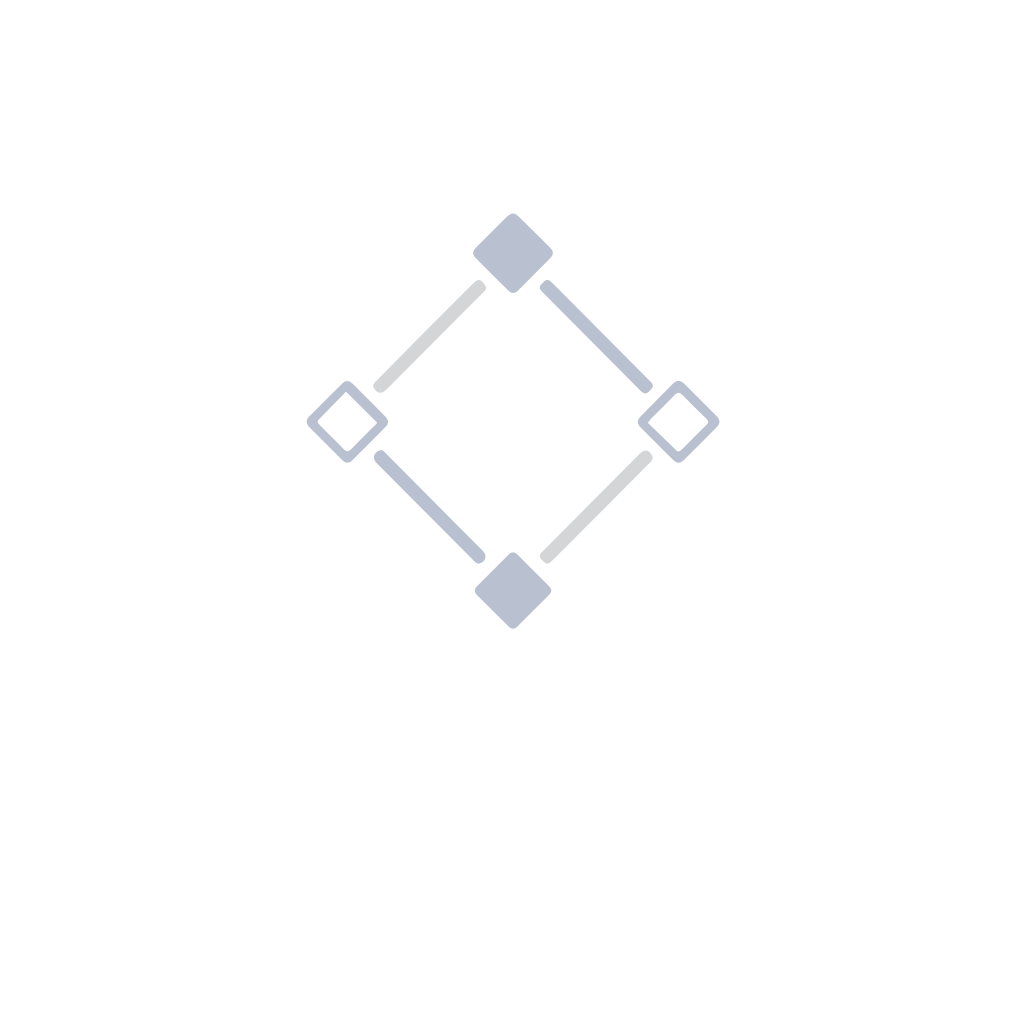
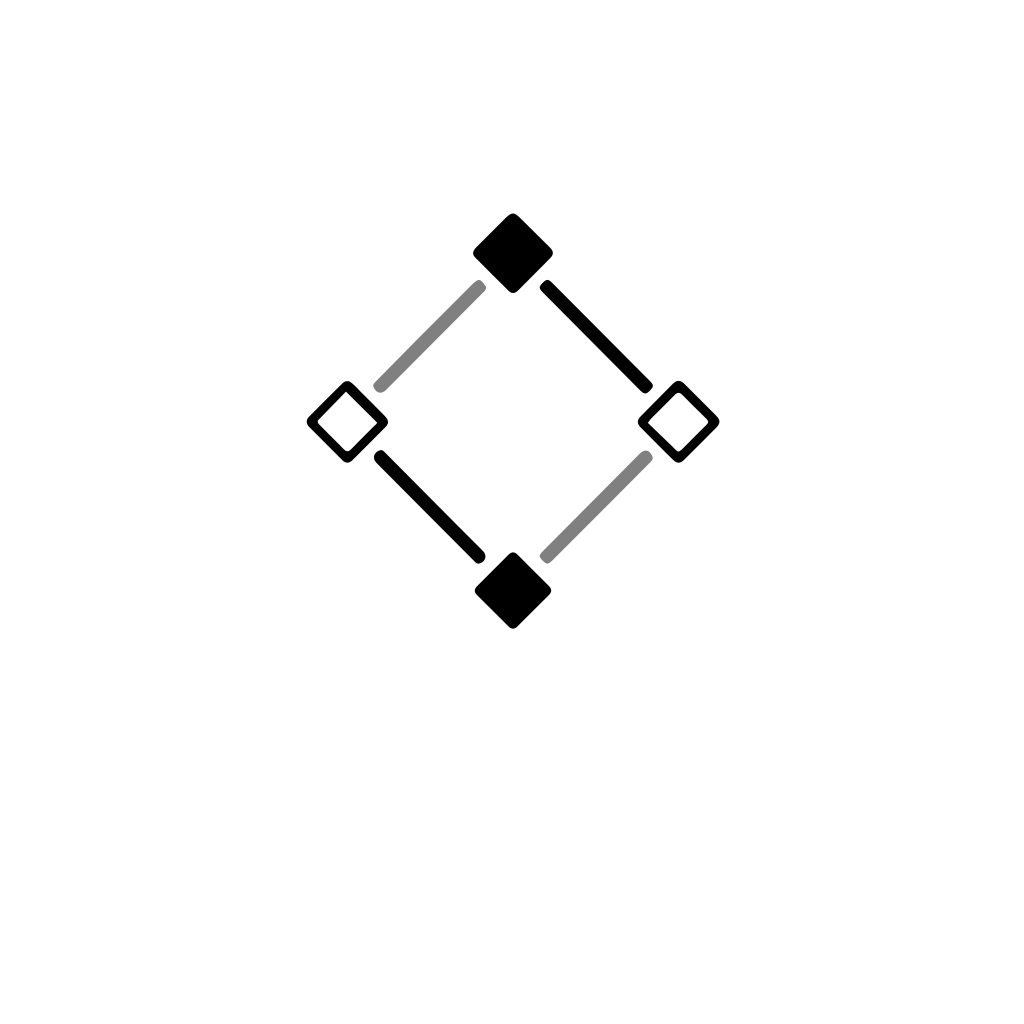
chore: split editor marks by theme

diff --git a/editors/vscode/README.md b/editors/vscode/README.md
@@ -7,7 +7,6 @@ experience for `.kn` source files.
 
 - Kern language registration for `.kn`
 - Kern mark as the bundled language icon
-- optional `Kern Icons` file icon theme for `.kn` files
 - stdio LSP connection to `kern-lsp`
 - diagnostics, hover, completion, rename, semantic tokens, and code actions
 - a lightweight TextMate grammar and language configuration for editor basics
@@ -82,23 +81,20 @@ JavaScript dependencies. It intentionally excludes `server/` and does not embed
 
 ## Icons
 
-The extension contributes the Kern mark as the default language icon for `kern`
-documents and also ships a `Kern Icons` file icon theme that maps `.kn` files
-to the same mark.
+The extension contributes theme-specific Kern marks as the default language
+icon for `kern` documents.
 
 The packaged extension also declares the PNG mark as its Marketplace icon, so
 the published listing and installed extension entry stay visually aligned with
-the language/file icon assets.
+the language icon assets.
 
-`../../assets/brand/kern-mark.svg` and
+`../../assets/brand/kern-mark-light.svg`,
+`../../assets/brand/kern-mark-dark.svg`, and
 `../../assets/brand/kern-mark.png` are the canonical repository mark assets.
 Run `npm run sync:icons` in `editors/vscode/` after updating them to refresh
-`icons/kern.svg` and `icons/kern.png` before packaging or publishing. The full
-README logo is kept separately at `../../assets/brand/kern-logo.svg`.
-
-If your current file icon theme already overrides language/file icons, switch
-VS Code's File Icon Theme to `Kern Icons` to guarantee that `.kn` files use the
-bundled mark.
+`icons/kern-light.svg`, `icons/kern-dark.svg`, and `icons/kern.png` before
+packaging or publishing. The full README logo is kept separately at
+`../../assets/brand/kern-logo.svg`.
 
 The extension README intentionally does not embed the raw SVG asset. GitHub
 renders local SVGs fine, but Marketplace publishing is stricter about extension

diff --git a/assets/brand/README.md b/assets/brand/README.md
@@ -3,8 +3,9 @@
 This directory contains the canonical Kern visual assets.
 
 - `kern-logo.svg`: full logo for README and documentation surfaces.
-- `kern-mark.svg`: square mark for editor language and file icons.
-- `kern-mark.png`: PNG rendering of the mark for packaged extension metadata.
+- `kern-mark-light.svg`: square mark for light-theme editor icons.
+- `kern-mark-dark.svg`: square mark for dark-theme editor icons.
+- `kern-mark.png`: PNG rendering of the light-theme mark for packaged extension metadata.
 
 Generated or packaged copies may live under tool-specific directories, such as
 `editors/vscode/icons/`, but those copies should be refreshed from this

diff --git a/README.md b/README.md
@@ -199,8 +199,8 @@ to drive a specific compile or link action directly.
 ## Editors
 
 The first-party VS Code extension lives in [editors/vscode](editors/vscode).
-It provides Kern language support and a `Kern Icons` file icon theme for `.kn`
-files.
+It provides Kern language support, language icons, semantic tokens,
+completion, hover, diagnostics, rename, and code actions.
 
 ## Build From Source
 

diff --git a/README.zh.md b/README.zh.md
@@ -178,7 +178,7 @@ Kern 包含这些工具：
 
 ## 编辑器
 
-第一方 VS Code 扩展位于 [editors/vscode](editors/vscode)。它提供 Kern 语言支持，并附带用于 `.kn` 文件的 `Kern Icons` 图标主题。
+第一方 VS Code 扩展位于 [editors/vscode](editors/vscode)。它提供 Kern 语言支持、语言图标、语义高亮、补全、悬浮信息、诊断、重命名和代码操作。
 
 ## 从源码构建
 